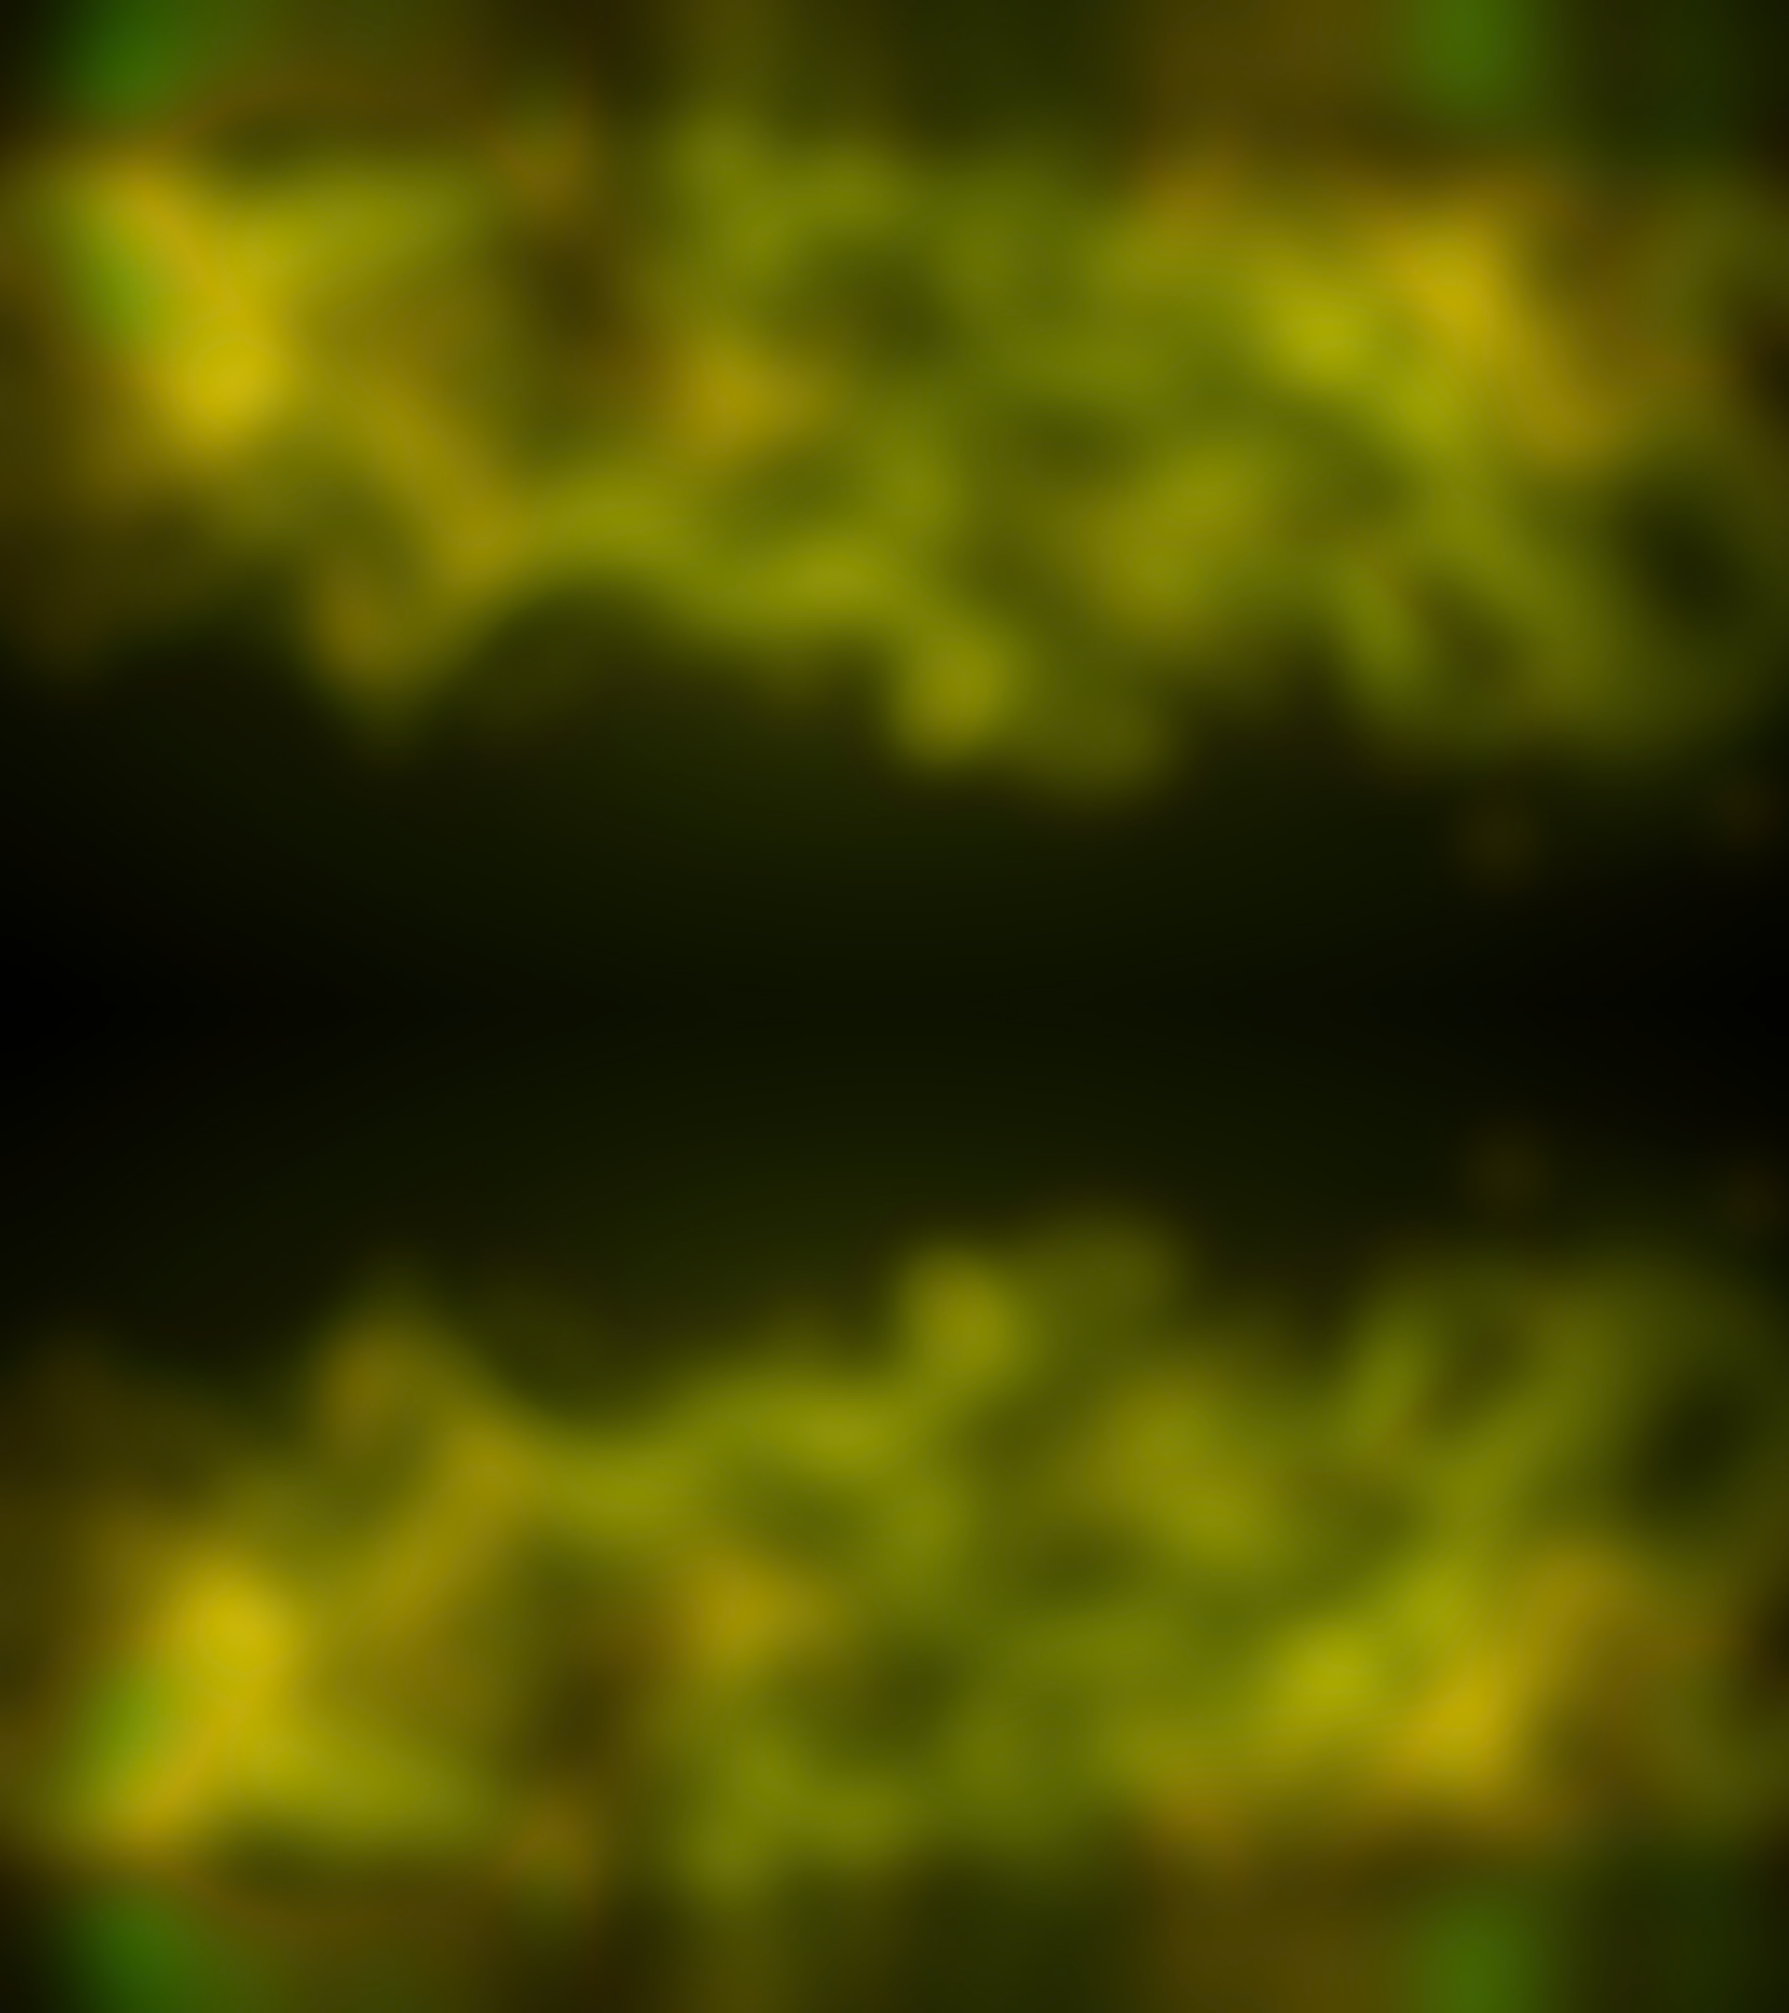
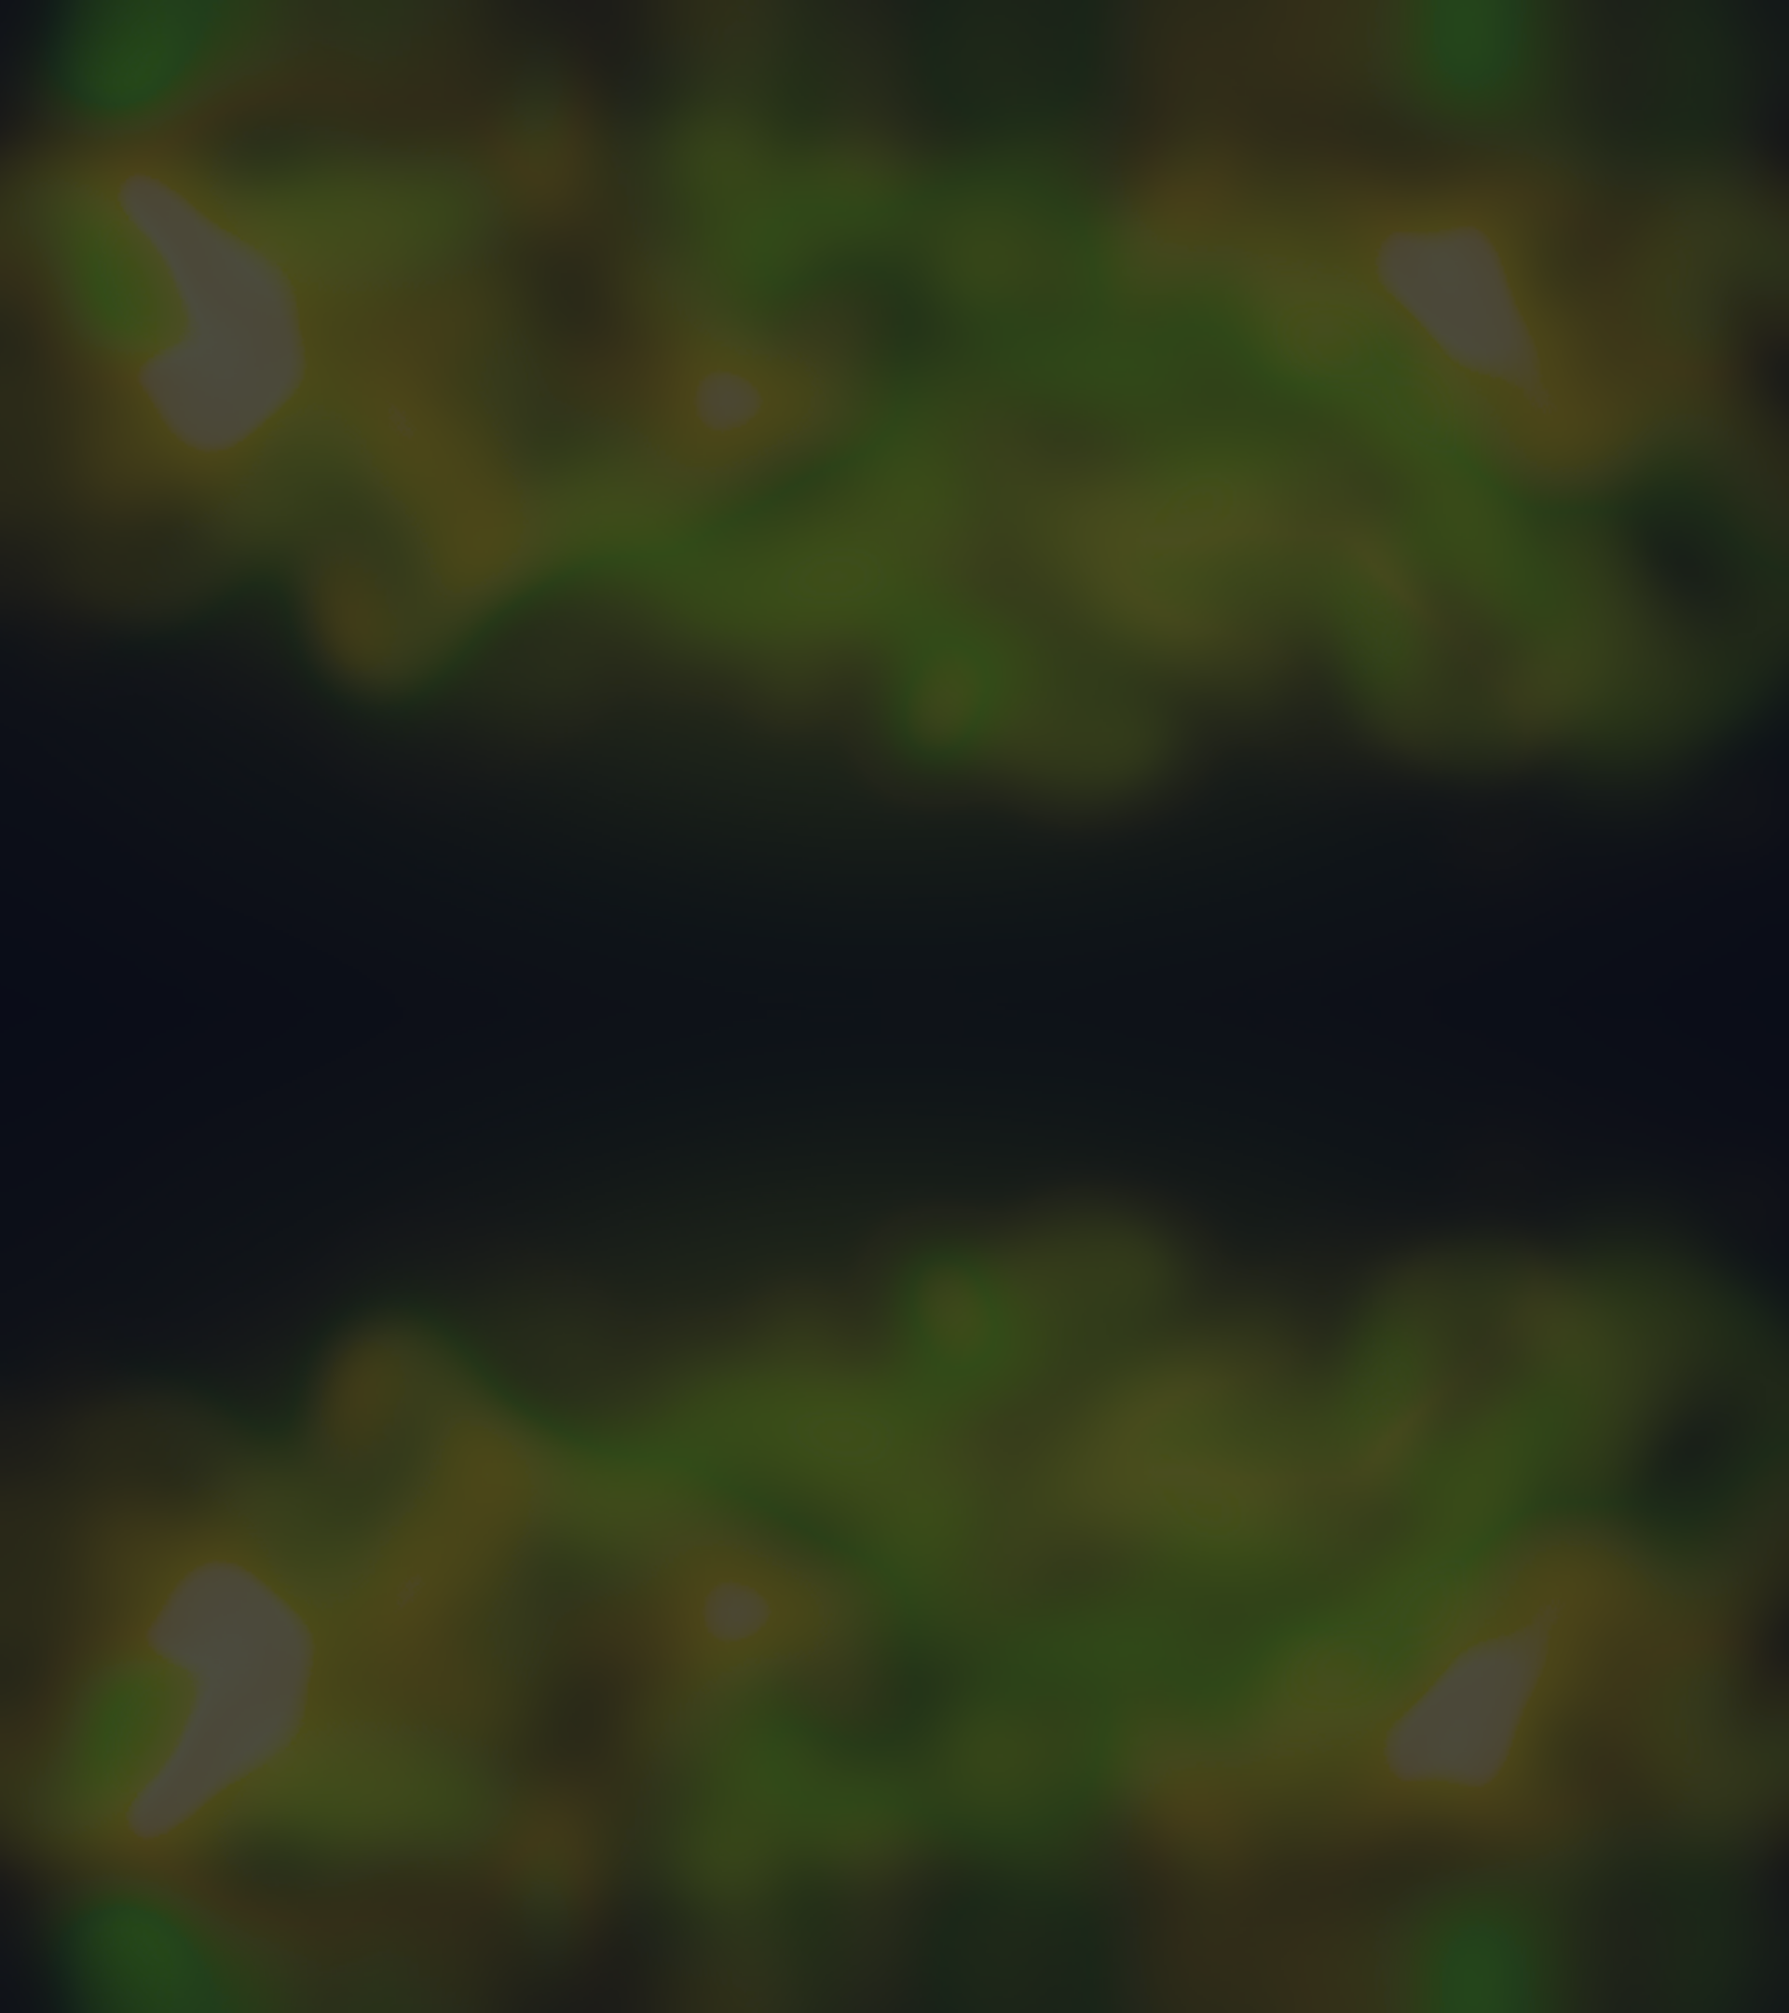
MEIANOITEEMEIA and you know im here to stay cuz me If I was to ever take a leave It woul be aspirine to break a fev

diff --git a/KamusicIndex.html b/KamusicIndex.html
@@ -35,46 +35,72 @@
     </div>
     <div class="main">
         <div class="corpo">
-            <a href="KamusicIndex.html"><img src="IMG/BannerHome2.gif" class="BannerY"></a>
+            <a href="KamusicIndex.html"><img src="IMG/BannerHome2.gif" class="BannerPrincipal"></a>
             <div class="conteiner-geral">
                 <div class="estilo">
                     <div class="titulo">
                         Explore os álbuns!
                     </div>
                 </div>
-                <div class="conteiner-geral">
-                    <div class="conteiner">
-                        <div class="item"><!--<a href="https://www.youtube.com/watch?v=isLOZsUEFT0">--><img
-                                src="IMG/MUSIC.01.jpg"><!--</a>-->
-                        </div>
-                        <div class="item"><!--<a href="https://www.youtube.com/watch?v=isLOZsUEFT0">--><img
-                                src="IMG/MUSIC.02.jpg"></a><!--</a>--></div>
-                        <div class="item"><!--<a href="https://www.youtube.com/watch?v=isLOZsUEFT0">--><img
-                                src="IMG/MUSIC.03.jpg"></a><!--</a>-->
-                        </div>
-                        <div class="item"><img src="IMG/MUSIC.02.jpg"></div>
-                        <div class="item"><img src="IMG/MUSIC.01.jpg"></div>
-                        <div class="item"><img src="IMG/MUSIC.03.jpg"></div>
+                <div class="conteiner">
+                    <div class="item"><!--<a href="https://www.youtube.com/watch?v=isLOZsUEFT0">--><img
+                            src="IMG/MUSIC.01.jpg"><!--</a>-->
                     </div>
-                    <div class="conteiner">
-                        <div class="item"><img src="IMG/MUSIC.01.jpg"></div>
-                        <div class="item"><img src="IMG/MUSIC.02.jpg"></div>
-                        <div class="item"><img src="IMG/MUSIC.03.jpg"></div>
-                        <div class="item"><img src="IMG/MUSIC.02.jpg"></div>
-                        <div class="item"><img src="IMG/MUSIC.01.jpg"></div>
-                        <div class="item"><img src="IMG/MUSIC.03.jpg"></div>
+                    <div class="item"><!--<a href="https://www.youtube.com/watch?v=isLOZsUEFT0">--><img
+                            src="IMG/MUSIC.02.jpg"></a><!--</a>--></div>
+                    <div class="item"><!--<a href="https://www.youtube.com/watch?v=isLOZsUEFT0">--><img
+                            src="IMG/MUSIC.03.jpg"></a><!--</a>-->
                     </div>
+                    <div class="item"><img src="IMG/MUSIC.02.jpg"></div>
+                    <div class="item"><img src="IMG/MUSIC.01.jpg"></div>
+                    <div class="item"><img src="IMG/MUSIC.03.jpg"></div>
+                </div>
+                <div class="estilo2">
+                    <div class="titulo">
+                        As mais ouvidas!
+                    </div>
+                </div>
+                <div class="conteiner">
+                    <div class="item"><img src="IMG/MUSIC.01.jpg"></div>
+                    <div class="item"><img src="IMG/MUSIC.02.jpg"></div>
+                    <div class="item"><img src="IMG/MUSIC.03.jpg"></div>
+                    <div class="item"><img src="IMG/MUSIC.02.jpg"></div>
+                    <div class="item"><img src="IMG/MUSIC.01.jpg"></div>
+                    <div class="item"><img src="IMG/MUSIC.03.jpg"></div>
+                </div>
+                <div class="estilo3">
+                    <div class="titulo">
+                        Playlists
+                    </div>
+                </div>
+                <div class="conteiner">
+                    <div class="item"><img src="IMG/MUSIC.01.jpg"></div>
+                    <div class="item"><img src="IMG/MUSIC.02.jpg"></div>
+                    <div class="item"><img src="IMG/MUSIC.03.jpg"></div>
+                    <div class="item"><img src="IMG/MUSIC.02.jpg"></div>
+                    <div class="item"><img src="IMG/MUSIC.01.jpg"></div>
+                    <div class="item"><img src="IMG/MUSIC.03.jpg"></div>
+                </div>
+                <div class="estilo4">
+                    <div class="titulo">
+                        Recomendações do mês
+                    </div>
+                </div>
+                <div class="conteiner3">
+                    <div class="item"><img src="IMG/MUSIC.02.jpg"></div>
+                    <div class="item"><img src="IMG/MUSIC.03.jpg"></div>
                 </div>
             </div>
         </div>
-        <footer class="clear">
-            <div class="Menon">
-                <hr>
-                <p>
-                    &copy Todos os direitos reservados. KaMusic.
-                </p>
-            </div>
-        </footer>
+    </div>
+    <footer class="clear">
+        <div class="Menon">
+            <hr>
+            <p>
+                &copy Todos os direitos reservados. KaMusic.
+            </p>
+        </div>
+    </footer>
 </body>
 
 </html>

diff --git a/KamusicArtistas.html b/KamusicArtistas.html
@@ -6,8 +6,8 @@
     <meta name="viewport" content="width=device-width, initial-scale=1.0">
     <title>KaMusic - Artistas</title>
     <link rel="shortcut icon" size="16x16" href="IMG/LogoIcon.png" class="LogoIcon">
-    <link rel="stylesheet" href="CSS/KamusicMenu.css">
     <link rel="stylesheet" href="CSS/KamusicArtistas.css">
+    <link rel="stylesheet" href="CSS/KamusicMenu.css">
     <!--Para possíveis ícones: <link rel="stylesheet" href="https://cdn.jsdelivr.net/npm/bootstrap-icons@1.13.1/font/bootstrap-icons.min.css">-->
 
 </head>
@@ -36,27 +36,27 @@
     </div>
     <div class="main">
         <div class="corpo">
-            <img src="IMG/BannerArt1.png" width="95%">
+            <img src="IMG/BannerArt1.png" width="100%" class="BannerPrincipal">
             <div>
                 <h2>Hip Hop</h2>
                 <div>
                     <h2>Tupac Shakur: O Poeta do Caos e da Esperança</h2>
-                    <a href="KamusicTupac.html"><img src="IMG/BannerTupac.png" width="95%"></a>
+                    <a href="KamusicTupac.html"><img src="IMG/BannerTupac.png" width="95%" class="Banner"></a>
                 </div>
                 <div>
                     <h2>Eminem: O Arquiteto das Rimas e o Anti-Herói do Pop</h2>
-                    <a href="KamusicEminem.html"><img src="IMG/BannerSlimShady.png" width="95%"></a>
+                    <a href="KamusicEminem.html"><img src="IMG/BannerSlimShady.png" width="95%" class="Banner"></a>
                 </div>
             </div>
             <div>
                 <h2>Rock</h2>
                 <div>
                     <h2>Iron Maiden: Os Guardiões do Metal e da História</h2>
-                    <a href="KamusicIronMaiden.html"><img src="IMG/BannerIronMaiden.png" width="95%"></a>
+                    <a href="KamusicIronMaiden.html"><img src="IMG/BannerIronMaiden.png" width="95%" class="Banner"></a>
                 </div>
                 <div>
                     <h2>Linkin Park: A Voz de uma Geração em Conflito</h2>
-                    <a href="KamusicLinkinPark.html"><img src="IMG/BannerLinkinParkOp2.png" width="95%"></a>
+                    <a href="KamusicLinkinPark.html"><img src="IMG/BannerLinkinParkOp2.png" width="95%" class="Banner"></a>
                 </div>
             </div>
             <div>

diff --git a/CSS/KamusicIndex.css b/CSS/KamusicIndex.css
@@ -2,11 +2,11 @@ body{
     background-image: url(../IMG/Background1.png);
 }
 
-.corpo{
-    background-color: rgba(255, 255, 255, 0.904);
+.conteiner-geral{
+    margin-top:50px;
 }
 
-.conteiner {
+.conteiner, .conteiner3 {
     padding: 20px;
     padding-left:10px;
     margin-bottom: 50px;
@@ -39,17 +39,6 @@ body{
     cursor: default;
 }
 
-.estilo {
-    background-color: rgb(0, 255, 208);
-    width: 100px;
-    height: 50px;
-    margin-top:30px;
-    margin-left:10px;
-    margin-bottom:-50px;
-    margin-right: 200px;
-    transition: 0.5s;
-}
-
 .titulo {
     font-family: Impact, Haettenschweiler, 'Arial Narrow Bold', sans-serif;
     position: relative;
@@ -59,20 +48,50 @@ body{
     white-space: nowrap;
 }
 
-.estilo:hover {
+/*Predefinições gerais de todos os estilos*/
+
+.estilo, .estilo2, .estilo3, .estilo4{
+    width: 100px;
+    height: 50px;
+    margin-top:30px;
+    margin-left:10px;
+    margin-bottom:-50px;
+    margin-right: 200px;
+    transition: 0.5s;
+}
+
+/*Predefinições específicas de cada estilos*/
+
+.estilo {
+    background-color: rgb(0, 255, 208);
+}
+
+.estilo2 {
+    background-color: rgb(255, 72, 72);
+}
+
+.estilo3 {
+    background-color: rgb(160, 255, 72);
+}
+
+.estilo4 {
+    background-color: rgb(255, 209, 72);
+    transition: 0.6s;
+}
+
+/*:hover de todos os estilos*/
+
+.estilo:hover, .estilo2:hover, .estilo3:hover, .estilo4:hover{
     cursor:pointer;
     width: 500px;
 }
 
-.BannerY {
-    margin-top: 20px;
-    width: 100%;
-    height: 100%;
-    transition: 0.2s;
-    border-radius:10px;
+/*Ajustes nos tamanhos devido à variações nos tamanhos dos textos*/
+
+.estilo3:hover{
+    width: 300px;
 }
 
-.BannerY:hover {
-    transform: scale(1.01);
-    cursor:pointer;
+.estilo4:hover{
+    width: 700px;
 }

diff --git a/KamusicGeneros.html b/KamusicGeneros.html
@@ -35,7 +35,7 @@
     </div>
     <div class="main">
         <div class="corpo">
-            <img src="IMG/BannerMusica.png" class="BannerMus">
+            <img src="IMG/BannerMusica.png" class="BannerPrincipal">
             <div style="text-align: justify; font-size:100%;">
                 <p>
                 <h2>O Mapa dos Sons: Como os Gêneros Ganharam Vida</h2>
@@ -70,8 +70,7 @@
             <br>
             <hr>
             <section class="texto">
-                <a href="KamusicArtistas.html"><img style="text-align: center" src="IMG/BannerHipHop1.png"
-                        width="100%"></a>
+                <a href="KamusicArtistas.html"><img style="text-align: center" src="IMG/BannerHipHop1.png" class="Banner"></a>
                 <h1 class="h1">Hip-Hop: O Som da Voz e do Asfalto</h1>
                 <div align="justify" style="text-align: justify; font-size:100%;font-size:18px">
                     <p>
@@ -149,7 +148,7 @@
                     <!--Escolher entre a img1 sem ou com traço. Prefiro o BannerRock1SemTraço.-->
 
                     <!--<img src="IMG/BannerRock1.png" alt="Descrição da imagem" width="100%"></a>-->
-                    <img src="IMG/BannerRock1SemTraço.png" alt="Descrição da imagem" width="100%"></a>
+                    <img src="IMG/BannerRock1SemTraço.png" alt="Descrição da imagem"  class="Banner"></a>
                 <h1 class="h1">Rock: A Revolução da Eletricidade e do Grito</h1>
                 <div align="justify" style="text-align: justify; font-size:100%;font-size:18px">
                     <p>

diff --git a/CSS/KamusicMenu.css b/CSS/KamusicMenu.css
@@ -17,6 +17,7 @@ body {
     /* Faz o cabeçalho ficar visualmente acima do menu-abaixo na tela */
     padding-top: 130px;
     /* Cria um espaço em branco interno na parte de cima */
+    border-bottom: 3px solid rgb(47, 47, 47);
 }
 
 /*Config da logo no cabeçalho*/
@@ -350,11 +351,35 @@ footer hr {
 }
 
 .corpo{
-    background-color:white;
+    background-color:rgba(255, 255, 255, 0.974);
     margin:20px;
     padding:20px;
+    padding-top:0px;
     border-radius: 15px;
     margin-top:50px;
+}
+
+.BannerPrincipal {
+    margin-top: 20px;
+    width: 100%;
+    height: 100%;
+    transition: 0.2s;
+    border-radius:10px;
+}
+
+.BannerPrincipal:hover {
+    cursor:pointer;
+    transform: scale(1.01);
+}
+
+.Banner{
+    width:95%;
+    border-radius:10px;
+    transition:0.2s;
+}
+
+.Banner:hover{
+    transform: scale(1.02);
 }
 
 /* 

diff --git a/CSS/KamusicArtistas.css b/CSS/KamusicArtistas.css
@@ -2,24 +2,16 @@ body {
     background-image: url(../IMG/Background2.png);
 }
 
-img {
-    max-width: 100%;
-    border-radius: 10px;
-    transition: 0.3s;
+.texto img{
+    width:95%;
+    cursor:pointer;
+    user-select: none;
+    transition:0.2s;
+    border-radius:5px;
 }
 
-img:hover {
-    transform: scale(1.05);
-}
-
-img {
-    max-width: 100%;
-    border-radius: 10px;
-    transition: 0.3s;
-}
-
-img:hover {
-    transform: scale(1.05);
+.texto img:hover{
+    transform: scale(1.02);
 }
 
 .h1 {
@@ -49,7 +41,6 @@ h3 {
 
 b {
     font-family: 'Oswald', sans-serif;
-    ;
     font-size: 15px;
     font-weight: bold;
     margin-bottom: 0px;

diff --git a/CSS/KamusicEstilos.css b/CSS/KamusicEstilos.css
@@ -12,7 +12,8 @@ body{
 }
 
 .img-box img{
-    width: 290px;
+    display:inline;
+    width:15%;
 }
 
 .img-box img:hover {
@@ -50,17 +51,4 @@ b {
     font-size: 15px;
     font-weight: bold;
     margin-bottom: 0px;
-}
-
-.BannerMus {
-    margin-top: 20px;
-    width: 100%;
-    height: 100%;
-    transition: 0.2s;
-    border-radius:10px;
-}
-
-.BannerMus:hover {
-    transform: scale(1.01);
-    cursor:pointer;
 }
